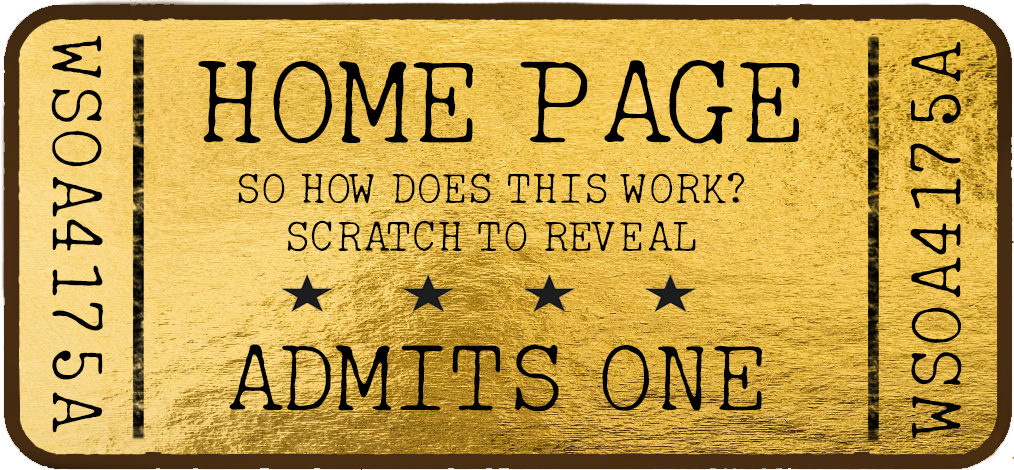
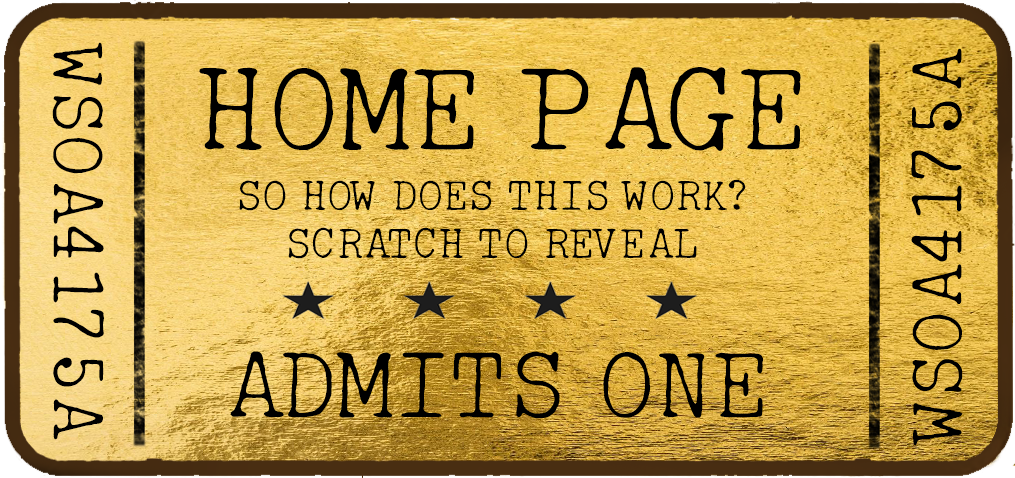
scratch
added scratch feature

Changed region(s): [[0.0, 0.0, 1.0, 1.0], [0.0611, 0.834, 0.0917, 0.8936]]

diff --git a/Java Script/wScratchpad.min.js b/Java Script/wScratchpad.min.js
@@ -1,0 +1,1 @@
+/*! wScratchPad - v2.1.0 - 2014-04-14 */!function (a) { "use strict"; function b(b, c) { this.$el = a(b), this.options = c, this.init = !1, this.enabled = !0, this._generate() } b.prototype = { _generate: function () { return a.support.canvas ? (this.canvas = document.createElement("canvas"), this.ctx = this.canvas.getContext("2d"), "static" === this.$el.css("position") && this.$el.css("position", "relative"), this.$img = a('<img src=""/>').attr("crossOrigin", "").css({ position: "absolute", width: "100%", height: "100%" }), this.$scratchpad = a(this.canvas).css({ position: "absolute", width: "100%", height: "100%" }), this.$scratchpad.bindMobileEvents(), this.$scratchpad.mousedown(a.proxy(function (b) { return this.enabled ? (this.canvasOffset = a(this.canvas).offset(), this.scratch = !0, void this._scratchFunc(b, "Down")) : !0 }, this)).mousemove(a.proxy(function (a) { this.scratch && this._scratchFunc(a, "Move") }, this)).mouseup(a.proxy(function (a) { this.scratch && (this.scratch = !1, this._scratchFunc(a, "Up")) }, this)), this._setOptions(), this.$el.append(this.$img).append(this.$scratchpad), this.init = !0, void this.reset()) : (this.$el.append("Canvas is not supported in this browser."), !0) }, reset: function () { var b = this, c = Math.ceil(this.$el.innerWidth()), d = Math.ceil(this.$el.innerHeight()), e = window.devicePixelRatio || 1; this.pixels = c * d, this.$scratchpad.attr("width", c).attr("height", d), this.canvas.setAttribute("width", c * e), this.canvas.setAttribute("height", d * e), this.ctx.scale(e, e), this.pixels = c * e * d * e, this.$img.hide(), this.options.bg && ("#" === this.options.bg.charAt(0) ? this.$el.css("backgroundColor", this.options.bg) : (this.$el.css("backgroundColor", ""), this.$img.attr("src", this.options.bg))), this.options.fg && ("#" === this.options.fg.charAt(0) ? (this.ctx.fillStyle = this.options.fg, this.ctx.beginPath(), this.ctx.rect(0, 0, c, d), this.ctx.fill(), this.$img.show()) : a(new Image).attr("src", this.options.fg).load(function () { b.ctx.drawImage(this, 0, 0, c, d), b.$img.show() })) }, clear: function () { this.ctx.clearRect(0, 0, Math.ceil(this.$el.innerWidth()), Math.ceil(this.$el.innerHeight())) }, enable: function (a) { this.enabled = a === !0 ? !0 : !1 }, destroy: function () { this.$el.children().remove(), a.removeData(this.$el, "wScratchPad") }, _setOptions: function () { var a, b; for (a in this.options) this.options[a] = this.$el.attr("data-" + a) || this.options[a], b = "set" + a.charAt(0).toUpperCase() + a.substring(1), this[b] && this[b](this.options[a]) }, setBg: function () { this.init && this.reset() }, setFg: function () { this.setBg() }, setCursor: function (a) { this.$el.css("cursor", a) }, _scratchFunc: function (a, b) { a.pageX = Math.floor(a.pageX - this.canvasOffset.left), a.pageY = Math.floor(a.pageY - this.canvasOffset.top), this["_scratch" + b](a), (this.options.realtime || "Up" === b) && this.options["scratch" + b] && this.options["scratch" + b].apply(this, [a, this._scratchPercent()]) }, _scratchPercent: function () { for (var a = 0, b = this.ctx.getImageData(0, 0, this.canvas.width, this.canvas.height), c = 0, d = b.data.length; d > c; c += 4)0 === b.data[c] && 0 === b.data[c + 1] && 0 === b.data[c + 2] && 0 === b.data[c + 3] && a++; return a / this.pixels * 100 }, _scratchDown: function (a) { this.ctx.globalCompositeOperation = "destination-out", this.ctx.lineJoin = "round", this.ctx.lineCap = "round", this.ctx.strokeStyle = this.options.color, this.ctx.lineWidth = this.options.size, this.ctx.beginPath(), this.ctx.arc(a.pageX, a.pageY, this.options.size / 2, 0, 2 * Math.PI, !0), this.ctx.closePath(), this.ctx.fill(), this.ctx.beginPath(), this.ctx.moveTo(a.pageX, a.pageY) }, _scratchMove: function (a) { this.ctx.lineTo(a.pageX, a.pageY), this.ctx.stroke() }, _scratchUp: function () { this.ctx.closePath() } }, a.support.canvas = document.createElement("canvas").getContext, a.fn.wScratchPad = function (c, d) { function e() { var d = a.data(this, "wScratchPad"); return d || (d = new b(this, a.extend(!0, {}, c)), a.data(this, "wScratchPad", d)), d } if ("string" == typeof c) { var f, g = [], h = (void 0 !== d ? "set" : "get") + c.charAt(0).toUpperCase() + c.substring(1), i = function () { f.options[c] && (f.options[c] = d), f[h] && f[h].apply(f, [d]) }, j = function () { return f[h] ? f[h].apply(f, [d]) : f.options[c] ? f.options[c] : void 0 }, k = function () { f = a.data(this, "wScratchPad"), f && (f[c] ? f[c].apply(f, [d]) : void 0 !== d ? i() : g.push(j())) }; return this.each(k), g.length ? 1 === g.length ? g[0] : g : this } return c = a.extend({}, a.fn.wScratchPad.defaults, c), this.each(e) }, a.fn.wScratchPad.defaults = { size: 5, bg: "#cacaca", fg: "#6699ff", realtime: !0, scratchDown: null, scratchUp: null, scratchMove: null, cursor: "crosshair" }, a.fn.bindMobileEvents = function () { a(this).on("touchstart touchmove touchend touchcancel", function (a) { var b = a.changedTouches || a.originalEvent.targetTouches, c = b[0], d = ""; switch (a.type) { case "touchstart": d = "mousedown"; break; case "touchmove": d = "mousemove", a.preventDefault(); break; case "touchend": d = "mouseup"; break; default: return }var e = document.createEvent("MouseEvent"); e.initMouseEvent(d, !0, !0, window, 1, c.screenX, c.screenY, c.clientX, c.clientY, !1, !1, !1, !1, 0, null), c.target.dispatchEvent(e) }) } }(jQuery);

diff --git a/index.html b/index.html
@@ -4,36 +4,39 @@
     <meta charset="UTF-8">
     <meta http-equiv="X-UA-Compatible" content="IE=edge">
     <meta name="viewport" content="width=device-width, initial-scale=1.0">
+    <title>Scratch Patch</title>
     <link rel="stylesheet" href="./CSS/main.css"/>
     <link rel="stylesheet" href="./CSS/menu.css"/>
     <link rel="stylesheet" href="./CSS/style.css"/>
     <script type="module" src="./Java Script/menu.js"></script>
-
-    <title>Scratch Patch</title>
+    <script
+        src="https://code.jquery.com/jquery-2.2.4.min.js"
+        integrity="sha256-BbhdlvQf/xTY9gja0Dq3HiwQF8LaCRTXxZKRutelT44="
+        crossorigin="anonymous">
+    </script>
+    <script src="./Java Script/app.js" defer></script>
+    <script src="./Java Script/wScratchpad.min.js"></script>
 </head>
+
 <header class="sticky-header">
     <h1>Scrtach Patch</h1>
 </header>
 
-<div class="menuDisplay">
+<div class="menuDisplay" style="position:relative">
     <nav></nav>
 </div>
 
-
-<div style="position: relative;">
-    <canvas id="scratchPatch" width="100" height="403px" 
-      style="position: absolute; align-items: center; left: 212px; top: 12px; z-index: 0;"></canvas>
-      <img src="./Images/ticket.png" style="width:1536px;height:540px;"
-      style="position: absolute; left: 0; top: -10; z-index: 1;"></img>
-</div>
-
 <body>
-    
 
-        
-    </canvas>\
+    <div style="position: absolute; width: 100%; height: 100%; top: 136px;">
+        <img src="./Images/ticket.png" style="width: 100%; height: 80%;">
+    </div>
+
+    <div id="container" style="position:relative">
+        <div id="card"></div>
+    </div>
+
     
 </body>
-
 
 </html>

diff --git a/CSS/style.css b/CSS/style.css
@@ -1,17 +1,22 @@
-#scratchPatch {
-    display: block;
-    z-index: 100;
-    margin: 0 auto;
-    background-image: url('../Images/ticket_cover_homepage.png');
-    background-image: -webkit-image-set(url('../Images/ticket_cover_homepage.png') 1x, 
-	url('../Images/ticket_cover_homepage.png') 2x );
-    background-size: cover;
-    width: 100%;
-    height: 100%;
-    max-width: 1100px;
-    max-height:505px;
-    height: auto;
-    cursor:  crosshair;
-    cursor: url(../Images/encil-scratches-png-dealing-with-autism-book-11563272860ignwbjclqj.png) 53 53, crosshair;
-    z-index: 100;
+#container{
+    width:inherit;
+    height:inherit;
+    display: flex;
+    align-items: center;
+    justify-content: center;
+}
+
+#card{
+    width:1115px;
+    height: 534px;
+    position: relative;
+    user-select: none;
+}
+
+img.canvas{
+    border-radius: 10px;
+}
+
+#card:active{
+    transform: scale(1.01);
 }

diff --git a/CSS/menu.css b/CSS/menu.css
@@ -13,6 +13,7 @@
     border-radius: 10px;
     height: 45px;
     transform:translate(0%,-55%);
+    z-index: 99;
 }
 
 nav ul{
@@ -31,7 +32,7 @@ nav li {
 
 nav li > a {
     color:white !important;
-    z-index: 99 !important;
+    
     
 }
 
@@ -50,6 +51,6 @@ li:hover > ul{
     padding-bottom: 20px;
     border-radius: 10px;
     line-height: 25px;
-    z-index: -99;
+    z-index: 99;
 }
 

diff --git a/Java Script/app.js b/Java Script/app.js
@@ -1,0 +1,7 @@
+
+$('#card').wScratchPad({
+    size: 100,          // The size of the brush/scratch.
+    bg : './Images/ticket_cover_layer.png',  // Background (image path or hex color).
+    fg : './Images/ticket_cover_homepage.png',  // Foreground (image path or hex color).
+    cursor      : 'pointer' // Set cursor.
+  });

diff --git a/CSS/main.css b/CSS/main.css
@@ -17,10 +17,6 @@ body{
     z-index: -10;
 }
 
-.main{
-    background-image: url("../Images/ticket.png");
-}
-
 
 
 .sticky-header{
